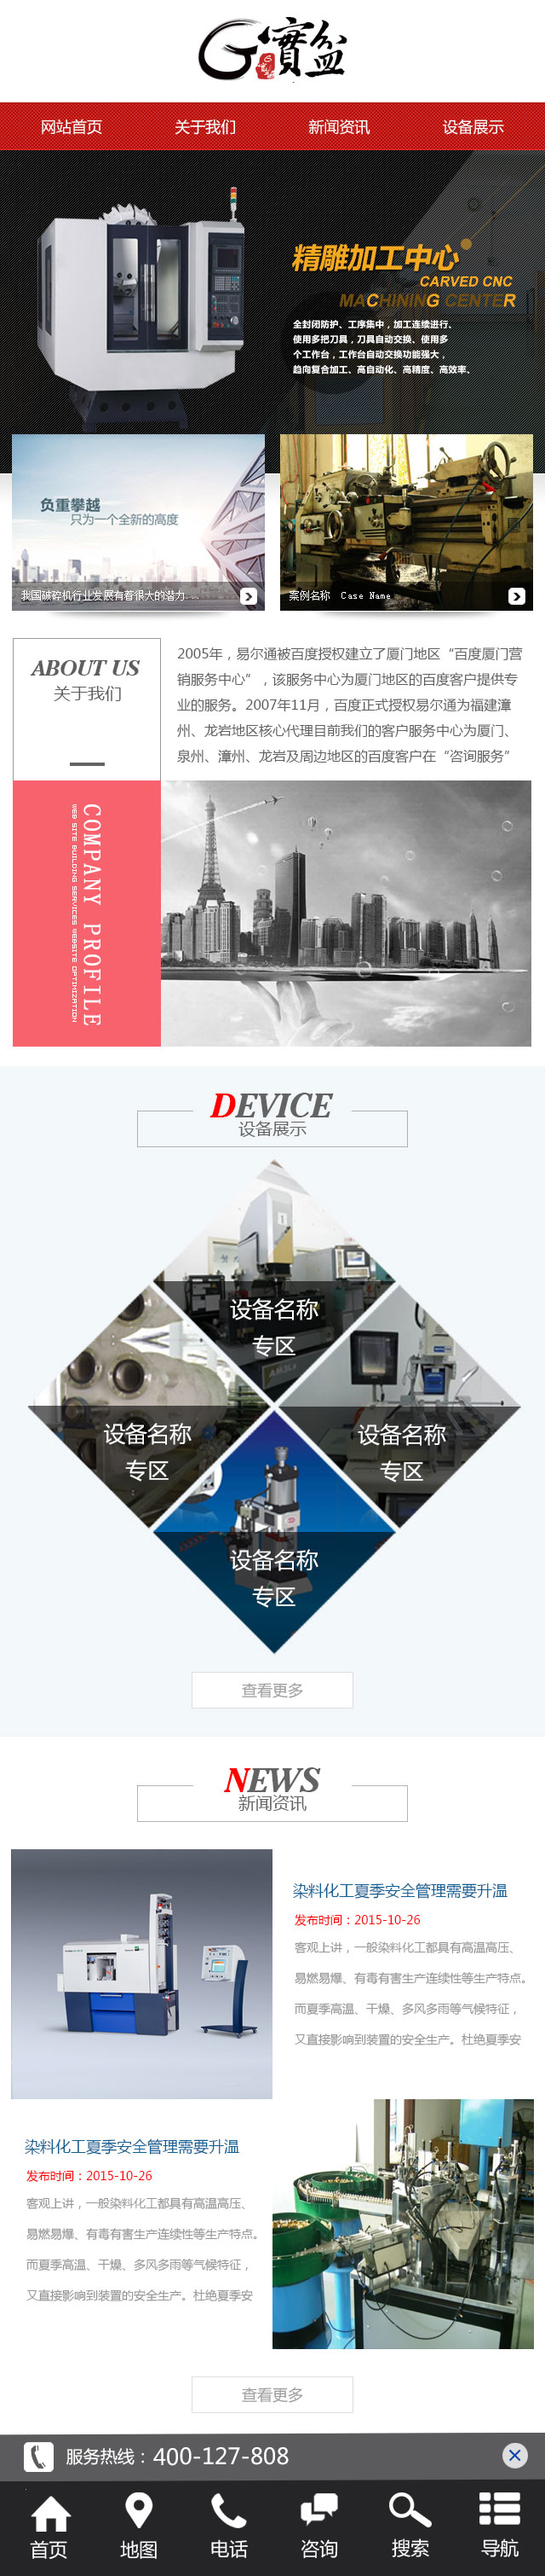
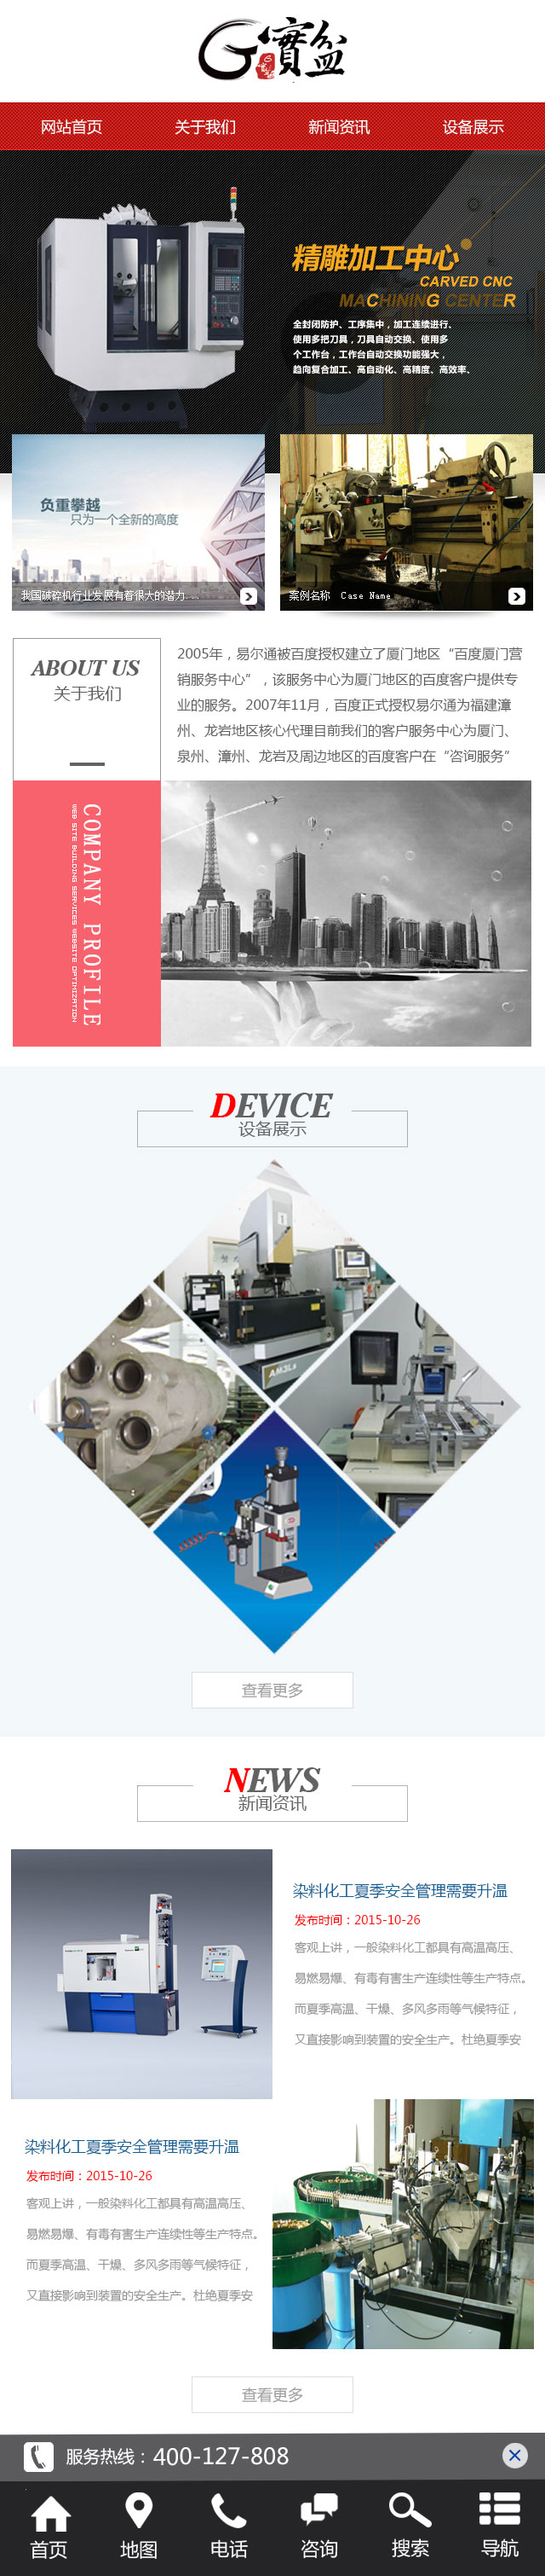
auto

Changed region(s): [[0.0625, 0.498, 0.9375, 0.6536]]

diff --git a/public/templates/GM0091/css/swipe.css b/public/templates/GM0091/css/swipe.css
@@ -3,7 +3,7 @@
 
 
 
-.menu{ height:90px; overflow:hidden; padding:0px 10px; margin:10px auto 10px; position:relative;}
+.menu{  overflow:hidden; padding:0px 10px; margin:10px auto 10px; position:relative;}
 .menu .nav{height:100%; overflow:hidden; position:relative; }
 .menu .swiper-nav {height:100%;}
 .menu .swiper-nav .swiper-wrapper {margin: 0 auto;}
@@ -18,7 +18,7 @@
 .menu .scroll-container .swiper-slide{ width:100%;}
 
 .menu .swiper-nav .swiper-slide .menubox{ margin:0px; height:100%; overflow: hidden; text-align:center;background:#88ceda; }
-.menu  .swiper-nav .swiper-slide .icon{ width:40px; height:40px; overflow:hidden; margin:10px auto 3px;}
+.menu  .swiper-nav .swiper-slide .icon{ width:40px;  overflow:hidden; margin:10px auto 3px;}
 .menu  .swiper-nav .swiper-slide .title{ height:30px; overflow:hidden; line-height:30px;}
 .menu .swiper-nav .swiper-slide  a{ display:block; color:#fff; font-size:1.14em;}
 .menu1{ position:absolute; bottom:0px; left:0px; height:35px; background:rgba(0,85,131,0.7); z-index:7}
@@ -32,7 +32,7 @@
 
 
 /*.menulist{ position:relative; height:40px; overflow:hidden; width:100%; background:#6794f1;  line-height:40px; box-shadow:1px 2px 3px #c6c6c6;}*/
-.menulist{ position:relative; height:80px; overflow:hidden; width:100%;   box-shadow:1px 2px 3px #c6c6c6; margin-top:15px;}
+.menulist{ position:relative;  overflow:hidden; width:100%;   box-shadow:1px 2px 3px #c6c6c6; margin-top:15px;}
 .menulist .navlist{ padding:0px 25px 0px 25px; height:80px; overflow:hidden;}
 .menulist .swiper-nav {height:80px;width: 100%; z-index:999;}
 .menulist .swiper-nav .swiper-wrapper {
@@ -40,13 +40,15 @@
 }
 /*.menulist .swiper-nav span {cursor: pointer;display: block;color: #fff;text-align: center; height:40px; line-height:40px; font-size:1.1em;}
 .menulist .swiper-nav span a{ color:#fff;padding:0px 0px; display:block; -webkit-tap-highlight-color:rgba(0,0,0,0);  }*/
-.menulist .swiper-nav span {cursor: pointer;display: block;color: #fff;text-align: center; height:78px; font-size:1.1em;width:90%; overflow:hidden; border:solid 1px #479e3f; margin:auto}
-.menulist .swiper-nav span a{ padding:0px 0px; display:block;overflow:hidden; width:100%; height:78px; position:relative;}
+.menulist .swiper-nav span {cursor: pointer;display: block;color: #fff;text-align: center;  font-size:1.1em;width:90%; overflow:hidden; border:solid 1px #479e3f; margin:auto; height:80px;}
+.menulist .swiper-nav span a{ padding:0px 0px; display:block;overflow:hidden; width:100%;  position:relative; height:80px;}
 .menulist .swiper-nav span a:before{width:0px;  height:0px;  width:0px; height:0px;  border-top:15px solid transparent;  border-right:15px solid #479e3f;content:" ";position:absolute; right:1px; bottom:1px;  }
-.menulist .swiper-nav span a .icon{ width:30%; display:block; margin:auto; margin-top:10px;}
+.menulist .swiper-nav span a .icon{ width:30%; display:block; margin:auto; margin-top:15px;}
 @media screen and (min-width: 320px) and (max-width: 480px){
-.menulist .swiper-nav span a{ font-size:12px;}
-.menulist .swiper-nav span a .icon{  margin-top:15px;}
+.menulist .swiper-nav span{ height:40px;}
+.menulist .swiper-nav span a{ font-size:12px; line-height:20px;}
+.menulist .swiper-nav span a .icon{ margin-top:0px }
+.menulist .swiper-nav span a:before{width:0px;  height:0px;  width:0px; height:0px;  border-top:10px solid transparent;  border-right:10px solid #479e3f;content:" ";position:absolute; right:1px; bottom:1px;  }
 
 
 }
@@ -55,7 +57,7 @@
 .menulist .swiper-nav span:active {background:rgba(0,0,0,0.2);}
 .menulist .swiper-pages {height: 100%;}
 .menulist .scroll-container {height: 100%;width: 100%;}
-.menulist .arrow-left,.menulist .arrow-right{ position:absolute; top:0px; left:0px; height:100%;color:#ff6785; width:25px; height:80px; text-align:center; line-height:80px; cursor:pointer; z-index:999999999;}
+.menulist .arrow-left,.menulist .arrow-right{ position:absolute; top:0px; left:0px; height:100%;color:#ff6785; width:25px; height:80px; text-align:center; line-height:80px; cursor:pointer; z-index:999999999; }
 .menulist .arrow-right{ background:rgba(0,0,0,0.1); font-size:20px; margin-right:0px;color:#fff;}
 /*.menulist .arrow-left{  background:rgba(255,255,255,0.2); font-size:20px; margin-left:0px; color:#fff;}*/
 .menulist .arrow-left{  background:rgba(0,0,0,0.1); font-size:20px; margin-left:0px; color:#fff;}
@@ -64,7 +66,7 @@
 .menulist .arrow-right{ left:auto; right:0px;}
 .menulist .arrow-left:hover,.menulist .arrow-right:hover{ color:#fff;}
 @media screen and (min-width: 320px) and (max-width: 480px){
-
+	.menulist .arrow-left, .menulist .arrow-right{ height:42px; line-height:42px}
 }
 @media screen and (min-width: 480px) {
 

diff --git a/public/templates/GM0091/css/css.css b/public/templates/GM0091/css/css.css
@@ -5,9 +5,9 @@
 .in_h2 .in_en{ color:#479e3f; line-height:12px; font-weight:normal; font-size:1em; }
 
 .in_more{ margin-right:10px;  height:35px; width:35px;  border: 1px solid #52a44a; z-index:111; float:left;}
-.in_more a{ position: relative; display:block; height:35px; width:35px;}
-.in_more a:after, .in_more a:before {  border: 5px solid transparent;  border-top: 5px solid #fff;  width: 0;  height: 0;  position: absolute;  top: 14px;  right: 0px; left:0; margin:auto;  content: ' '; }
-.in_more a:before { border-top-color: #52a44a; top: 15px;}
+.in_more span{ position: relative; display:block; height:35px; width:35px;}
+.in_more span:after, .in_more span:before {  border: 5px solid transparent;  border-top: 5px solid #fff;  width: 0;  height: 0;  position: absolute;  top: 14px;  right: 0px; left:0; margin:auto;  content: ' '; }
+.in_more span:before { border-top-color: #52a44a; top: 15px;}
 
 @media screen and (min-width: 320px) and (max-width: 479px){
 .in_h2 .in_zh{ font-size:14px;}
@@ -16,11 +16,16 @@
 /*标题样式*/
 
 .inner{ margin-top:15px;}
-.wrapper{ width:95%; margin:auto; margin-top:25px;}
+.wrapper{ width:95%; margin:auto; }
 
-.in_home:nth-child(2){ position:relative; background:#479e3f; padding:20px 0; border:solid 1px #479e3f; width:100%}
-.in_home:nth-child(2):before{ position:absolute; content:''; width:50%; height:100%; left:0; top:0; background:#f1fff0;}
-.in_home:nth-child(2) .in_in{ padding:20px 10px; padding-bottom:15px; background:#fff; width:90%; margin:auto; position:relative;}
+.in_home1{ position:relative;}
+.in_home1:before{ position:absolute; content:''; width:50%; height:100%; left:0; top:0; background:#f1fff0;}
+.in_home1 .in_in{ padding:20px 10px; padding-bottom:15px; background:#fff; width:90%; margin:auto; position:relative;}
+
+
+.in_home{ position:relative; background:#479e3f; padding:20px 0; border:solid 1px #479e3f; width:100%}
+.in_home:before{ position:absolute; content:''; width:50%; height:100%; left:0; top:0; background:#f1fff0;}
+.in_home .in_in{ padding:20px 10px; padding-bottom:15px; background:#fff; width:90%; margin:auto; position:relative;}
 
 #in_page .in_in{ padding:20px 10px;border-bottom:dashed 1px #ccc; padding-bottom:15px; background:#fff; width:90%; margin:auto; position:relative;}
 #in_page .in_in:before{width:0px;  height:0px;  width:0px; height:0px;  border-bottom:15px solid transparent;  border-right:15px solid #479e3f;content:" ";position:absolute; right:1px; top:1px;}
@@ -28,12 +33,13 @@
 #in_page .inner p{ float:right; width:77%; line-height:24px; height:72px; overflow:hidden;}
 
 #in_image ul li .in_protitle{ height:35px; margin-top:-40px; background:rgba(241,255,240, 0.8)}
-#in_image ul li .in_text{ text-align:left; font-size:0.8em; border-bottom:solid 1px #bee2bb; height:73px; overflow:hidden}
+#in_image ul li .in_text{ text-align:left; font-size:0.8em; border-bottom:solid 1px #bee2bb; height:40px; line-height:20px; overflow:hidden}
 
 #in_image ul li .number{ float:left; width:35px; height:35px; margin-right:5px; background:#479e3f; color:#fff; line-height:35px;}
 
 ul.newslist{ margin-top:10px; padding:0px;}
-ul.newslist li{ margin:15px 0px; display:-webkit-box;display:-moz-box;display:-o-box;display:-ms-box;display:box; width:100%;}
+ul.newslist li{ margin:15px 0px; }
+ul.newslist li a{ display:block; display:-webkit-box;display:-moz-box;display:-o-box;display:-ms-box;display:box;}
 ul.newslist li .newsimg{ border-radius:50%; margin:0 2%;overflow:hidden; float:left; width:70px; margin-top:-2%; border:solid 2px #FFF;box-shadow:2px 2px 2px #000 }
 
 ul.newslist li .newsimg img{ width:100%}
@@ -44,7 +50,7 @@ ul.newslist li .date .day{ height:30px; line-height:30px; margin-top:10px; font-
 ul.newslist li .date .year{ height:30px; overflow:hidden; color:#fff; border-top: solid 1px #fff}
 ul.newslist li .list{-webkit-box-flex:1;-moz-box-flex:1;-o-box-flex:1;-ms-box-flex:1;box-flex:1; background:#f1fff0; position:relative;  padding:4px 15px;  }
 ul.newslist li .list dt{ height:24px; overflow:hidden;white-space: normal;text-overflow: ellipsis; font-size:1.15em; border-bottom: solid 1px #479e3f}
-ul.newslist li .list dd{ height:38px;  line-height:19px; overflow:hidden; font-size:.9em;}
+ul.newslist li .list dd{ height:38px;  line-height:19px; overflow:hidden; font-size:.9em; width:98%; padding-right:2%; overflow:hidden }
 
 
 

diff --git a/app/views/templates/GM0091/index.html b/app/views/templates/GM0091/index.html
@@ -62,22 +62,17 @@
       {if $mIndexCat.type eq 4}
         <div id="in_page" class="wrapper in_home">
       <div class="in_in">
-        <h2 class="in_h2"><a href="{$mIndexCat.link}"><div class="in_more"></div><div class="in_en">{$mIndexCat.en_name}</div><div class="in_zh">{$mIndexCat.name}</div></a></h2>
+        <h2 class="in_h2"><a href="{$mIndexCat.link}"><div class="in_more"><span></span></div><div class="in_en">{$mIndexCat.en_name}</div><div class="in_zh">{$mIndexCat.name}</div></a></h2>
         <div class="inner clearfix">
           <div class="page_img"><img src="{$mIndexCat.image}"></div><p>{$mIndexCat.description}</p>
        </div>
         </div>
         </div>
         
-        
-        
          {elseif $mIndexCat.type eq 1} 
-          
-              
-        
-        <div id="in_text" class="wrapper in_home">
+        <div id="in_text" class="wrapper in_home1 ">
       <div class="in_in">
-        <h2 class="in_h2"><a href="{$mIndexCat.link}"><div class="in_more"></div><div class="in_en">{$mIndexCat.en_name}</div><div class="in_zh">{$mIndexCat.name}</div></a></h2>
+        <h2 class="in_h2"><a href="{$mIndexCat.link}"><div class="in_more"><span></span></div><div class="in_en">{$mIndexCat.en_name}</div><div class="in_zh">{$mIndexCat.name}</div></a></h2>
         <ul class="newslist">
          {foreach item=article from=$mIndexCat.data}
              <li><a href="{$article.link}">
@@ -92,7 +87,7 @@
                 </div>
                 </a>
              </li> 
-                {if $article@index+1 == 3}{break}{/if} {/foreach}         
+                {if $article@index+1 == 4}{break}{/if} {/foreach}         
           </ul>
           </div>
         </div>
@@ -101,9 +96,10 @@
      
          {elseif $mIndexCat.type eq 3} 
        
-      <div id="in_image" class="wrapper">
-          <h2 class="in_h2"><a href="{$mIndexCat.link}"><div class="in_more"></div><div class="in_en">{$mIndexCat.en_name}</div><div class="in_zh">{$mIndexCat.name}</div></a></h2>
-       <div class="inner yc insub_image">
+      <div id="in_image" class="wrapper in_home1">
+      <div class="in_in">
+          <h2 class="in_h2"><a href="{$mIndexCat.link}"><div class="in_more"><span></span></div><div class="in_en">{$mIndexCat.en_name}</div><div class="in_zh">{$mIndexCat.name}</div></a></h2>
+         <div class="inner yc insub_image">
             <ul class="clearfix">
             {foreach item=article from=$mIndexCat.data}
               
@@ -115,8 +111,9 @@
                   <div class="in_text">{$article.description}</div></div></a>
               </li>
               
-                  {if $article@index+1 == 3}{break}{/if} {/foreach}
+                  {if $article@index+1 == 4}{break}{/if} {/foreach}
             </ul>
+        </div>
         </div>
         </div>
       

diff --git a/public/templates/GM0061/css/css.css b/public/templates/GM0061/css/css.css
@@ -6,7 +6,7 @@ span.hicon1 a{color: #fff;font-size: 1.1em;}
 
 
 /*首页内容*/
-.index-cont{height:auto;background:-webkit-linear-gradient(top,#e7e7e7,#fff);margin-top: 1px;display: inline;}
+.index-cont{height:auto;background:-webkit-linear-gradient(top,#e7e7e7,#fff);/*margin-top: 1px;*/display: inline;position: relative;z-index: 999}
 
 
 /*case*/
@@ -41,27 +41,18 @@ span.hicon1 a{color: #fff;font-size: 1.1em;}
 
 /*DEVICE*/
 .device{background: #f3f7fa;padding:5% 2%;}
-.device-tit{width: 50%;margin: 0 auto;text-align: center;border: 1px solid #aeb0b2;padding-bottom: 1%}
+.device-tit{width: 50%;margin: 0 auto;text-align: center;border: 1px solid #aeb0b2;padding-bottom: 1%;margin-bottom: 15%;}
 /*.device-tit*/
 .device-tit h2{font-family: '339-cai978339-cai978';font-size: 1.2em;color: #636363;background: #f3f7fa;width: 40%;margin: -6% auto;}
 .device-tit h2:first-letter{color: #f00;}
 .device-tit span{display: inline-block;}
 /*device-box*/
-/*.devicebox{position: relative;margin: 12% 0 5%;position: relative;}
-.devicebox-item{display: block;width: 30%;height:auto;background: red;transform: rotate(-45deg);overflow: hidden;position: relative;}
-.devicebox-item img{transform: rotate(-45deg);}*/
-/*.devicebox-item img{transform: rotate(45deg);}*/
-/*.devicebox-item:nth-child(1){margin-left: 35%;}
-.devicebox-item:nth-child(2){margin-left: 13%;margin-top: -7%;}
-.devicebox-item:nth-child(3){float: right;margin-top: -30%;margin-right: 13%}
-.devicebox-item:nth-child(4){margin-left: 35%;margin-top: -7%}*/
-.devicebox{width: 65%;margin: 0 auto;font-size: 0;margin-top:19%;transform:rotate(45deg);-webkit-transform:rotate(45deg);transform:rotate(45deg);}
-.devicebox li{display: inline-block;width: 100px;height: 100px;margin-right: 10px;/*margin-bottom: 10px;*/background-color: #ccc;overflow: hidden;}
-.devicebox li img{width: 100%;height: 100%;-moz-transform: rotate(-45deg) scale(1.5);-webkit-transform: rotate(-45deg) scale(1.5);transform: rotate(-45deg) scale(1.5);}
-/*.arw{}*/
+.devicebox{width:60%;margin: 0 auto;-moz-transform: rotate(45deg);-webkit-transform: rotate(45deg);transform: rotate(45deg); }
+.devicebox ul{overflow: hidden;}
+.devicebox ul li{width:46%;float: left;overflow: hidden;margin: 2%}
+.devicebox ul li a{display: inline-block;-moz-transform: rotate(-45deg) scale(1.5);-webkit-transform: rotate(-45deg) scale(1.5);transform: rotate(-45deg) scale(1.5);}
 
-
-.showmore{display:block;border: 1px solid #dfdfdf;width:30%;background: #fff;margin:10% auto 0;text-align: center;color: #9d9d9d;}
+.showmore{display:block;border: 1px solid #dfdfdf;width:30%;background: #fff;margin:15% auto 0;text-align: center;color: #9d9d9d;}
 /*NEWS*/
 .news{padding: 5% 0;overflow: hidden;}
 .news a{display: block;overflow: hidden;}

diff --git a/public/templates/GM0092/css/public.css b/public/templates/GM0092/css/public.css
@@ -15,7 +15,6 @@ a{ color:#333}
 
 .header{ width:100%; height: auto; overflow:hidden;  position:relative; padding-bottom:30px}
 .logo{width:100%; height: auto; overflow:hidden;   top:0;background-size:100% auto; left:0; z-index:100}
-.logo img{ margin-left:10%;}
 .header_menu{  position:absolute; top:50%; -webkit-transform:translate(0,-50%); right:15px; background:#80d1e4;-webkit-mask-repeat:no-repeat; -webkit-mask-image: url(../icon/zz1.png);-webkit-mask-size:23px auto;width:23px; height:23px;}
 .boxmaind{ width:100%; margin:auto; } 
 
@@ -43,6 +42,7 @@ a{ color:#333}
 /*banner结束*/
 
 .nav_list ul li{ float:left; width:29%; margin:1% 2%; padding:15px 0; text-align:center; background:rgba(0,0,0,0.3);border-radius:10px;}
+.nav_list ul li .iconfont{ display:block;}
 .nav_list ul li img{ width:30%; margin:auto; display:block}
 .nav_list ul li a{ color:#fff}
 
@@ -116,7 +116,7 @@ a{ color:#333}
 /*list-image*/
 .list_image ul li,.insub_image ul li{  float:left; display: inline-block; text-align:center;width:42%; margin:0 2%; padding:1% 1% 0 1%;margin-bottom:10px; }
 .list_image ul li .imgpic,.insub_image ul li .in_proimg{margin-bottom:5px; }
-.list_image ul li .imgword,.insub_image ul li .in_protitle{ height:25px; line-height:25px;text-align:center}
+.list_image ul li .in_protitle,.insub_image ul li .in_protitle{ height:25px; line-height:25px;text-align:center}
 /*list-image*/
 
 

diff --git a/public/templates/GM0091/js/function.js b/public/templates/GM0091/js/function.js
@@ -13,19 +13,18 @@ $(document).ready(function(){
 $(window).load(function(){
 /*美工专属区域*/
   var pw,mw;
-  $(".in_home").each(function() {
+  $(".in_home, .in_home1").each(function() {
   pw = $(this).find(".in_h2").width()/2;
   mw = $(this).find(".in_more").width()+ 15;
   	$(this).find(".in_h2 .in_more").css({"margin-left":pw-mw})
 	});
 $(window).resize(function(){
 	 var pw,mw;
-  $(".in_home").each(function() {
+  $(".in_home,.in_home1").each(function() {
   pw = $(this).find(".in_h2").width()/2;
   mw = $(this).find(".in_more").width()+ 15;
   	$(this).find(".in_h2 .in_more").css({"margin-left":pw-mw})
 	});
-	
 	})
 
 $(".list_imagetext ul li").each(function(){
@@ -33,6 +32,18 @@ if($(".list_imagetext ul li .img_box img").height()<$(".list_imagetext ul li .te
 	var z=($(".list_imagetext ul li .text_box").height()-$(".list_imagetext ul li .img_box img").height())*0.5
 	$(".list_imagetext ul li .img_box img").css({"margin-top":z})
 	}})
+
+
+
+$(".swiper-slide,.menulist .swiper-nav,.menulist,.navlist,menulist,.swiper-wrapper").height($(".menulist .swiper-nav span").height()+2+"px")
+$(".menulist .swiper-nav span .iconfont").css({"color":"#47a042"})
+
+ $("section div .number").each(function (i) {
+        $(this).text("0"+(i+1));
+		if( i>8 ) { $(this).text(i+1);}
+      });
+ 
+ 
 
 /*美工专属区域*/
 	

diff --git a/app/views/templates/GM0085/searchresult_do.html b/app/views/templates/GM0085/searchresult_do.html
@@ -59,6 +59,7 @@
             	{foreach name=article item=article from=$search.data}<!--search_content_start-->
                  <li><a href="search_$link" class="public_color">search_$title</a></li>
 				<!--search_content_end-->{/foreach}
+         
             </ul>
             
                 <div class="next1 public_color"><a href="{$page_links.first_link}" class="public_color">首页</a><a href="{$page_links.prev_link}" class="public_color">上一页</a>{$page_links.current_page}/{$page_links.page_count}　<a href="{$page_links.next_link}" class="public_color">下一页</a><a href="{$page_links.last_link}" class="public_color">尾页</a></div>
@@ -68,7 +69,7 @@
       </div>
     </div>
   </section>
-      <footer class="foot" ><a class="back-top">∧</a>{$footprint}</footer>
+      <footer class="foot bg1" ><a class="back-top">∧</a>{$footprint}</footer>
 </div>
 </div>{$footscript}</div>
 </body>

diff --git a/public/templates/GM0061/js/function.js b/public/templates/GM0061/js/function.js
@@ -30,6 +30,9 @@ $(document).ready(function(){
 	
 		$(".class-m").height($(".class").outerHeight()-$(".class-top").outerHeight())
 		// $(".index-wrap").height($(".wrap").height()-$(".fixed").height()-$(".tell-icon").height())
+
+			$('.devicebox').height($('.devicebox').width());
+			$('.devicebox ul li').height($('.devicebox ul li').width());
 	})
 
 	// 
@@ -297,5 +300,8 @@ $(document).ready(function(){
 	$('.news-desc').height($('.list-imgtxt ul li a img').height());
 
 	$('.devicebox-item').height($('.devicebox-item').width())
+	$('.devicebox').height($('.devicebox').width());
+	$('.devicebox ul li').height($('.devicebox ul li').width());
+
 });
   

diff --git a/app/views/templates/GM0092/list-image.html b/app/views/templates/GM0092/list-image.html
@@ -72,7 +72,7 @@
                   {foreach name=article item=article from=$list.data}                    
                      <li><a href="{$article.link}">
                    <div class="in_proimg"><img src="{$article.image}" width="100%" title="160*150"></div>
-                  <div class="in_protitle"> {$article.title}</div>
+                  <div class="in_protitle"><p> {$article.title}</p></div>
                 </a> </li>
                       {if $article@index+1 == 12} {break} {/if}
                     {/foreach}

diff --git a/app/views/templates/GM0092/_header.html b/app/views/templates/GM0092/_header.html
@@ -19,7 +19,7 @@
       <div class="nav_list">
        <ul>
          {foreach item=nav from=$navs}
-              <li><a href="{$nav.link}"><img src="{$nav.image}" >{$nav.name}</a></li>
+              <li><a href="{$nav.link}">{$nav.icon}{$nav.name}</a></li>
          {/foreach}  
 
        </ul>

diff --git a/public/templates/GM0092/js/function.js b/public/templates/GM0092/js/function.js
@@ -20,7 +20,7 @@ if($(".list_imagetext ul li .img_box img").height()<$(".list_imagetext ul li .te
 	$(".list_imagetext ul li .img_box img").css({"margin-top":z})
 	}})
 
-
+$(".nav_list ul li .iconfont").css({"font-size":"25px"})
 /*美工专属区域*/
 	
 	
